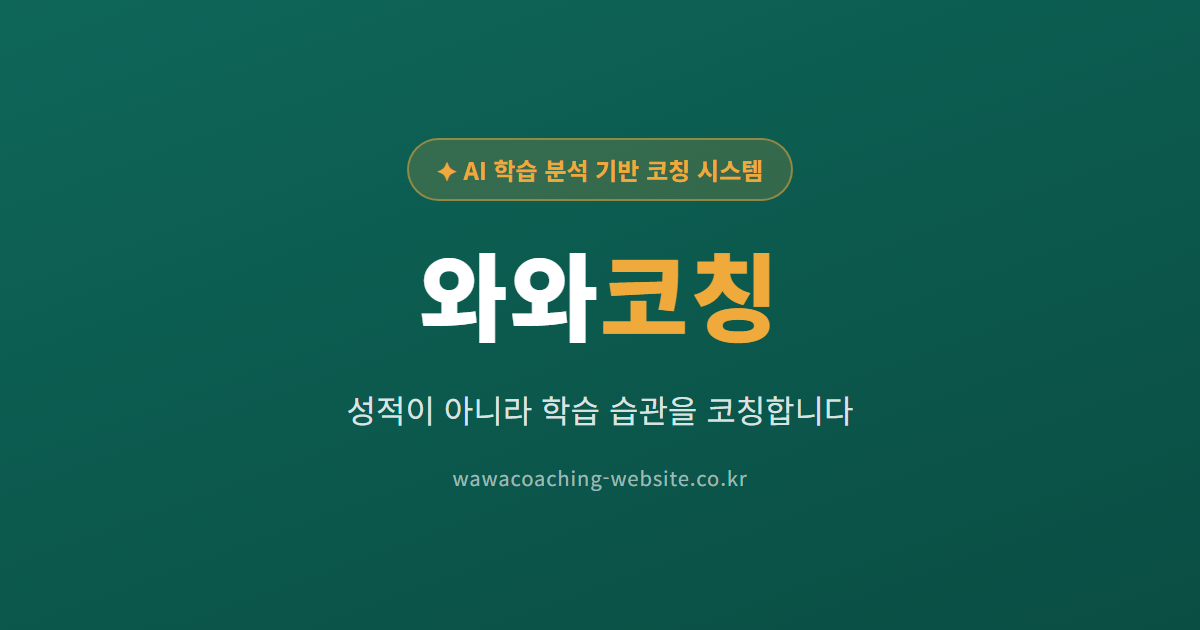
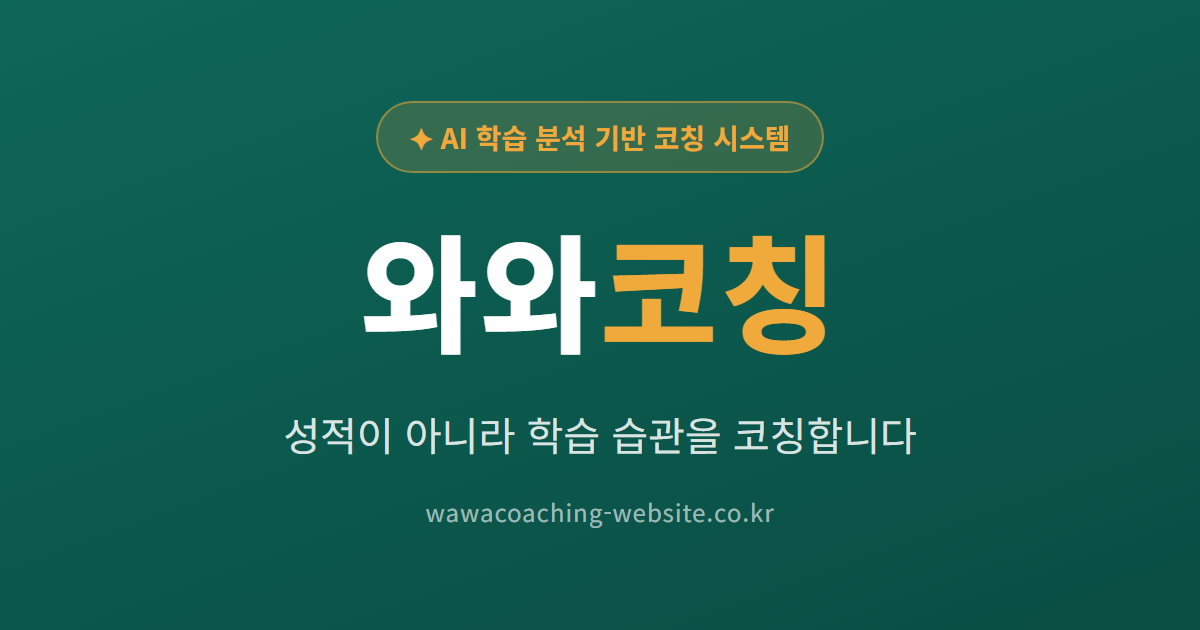
공유용 썸네일 글씨 크기 확대 (프레임 내 여백 유지)

diff --git a/visit-class.html b/visit-class.html
@@ -10,12 +10,12 @@
 <meta property="og:type" content="website" />
 <meta property="og:title" content="방문·화상 수업 안내 - 와와코칭" />
 <meta property="og:description" content="가까운 지점이 멀 때도 괜찮습니다. 선생님이 직접 방문하거나 화상으로 진행하는 코칭을 안내합니다." />
-<meta property="og:image" content="https://wawacoaching-website.co.kr/og-thumbnail.png?v=1" />
+<meta property="og:image" content="https://wawacoaching-website.co.kr/og-thumbnail.png?v=2" />
 <meta property="og:image:width" content="1200" />
 <meta property="og:image:height" content="630" />
 <meta property="og:url" content="https://wawacoaching-website.co.kr/visit-class.html" />
 <meta name="twitter:card" content="summary_large_image" />
-<meta name="twitter:image" content="https://wawacoaching-website.co.kr/og-thumbnail.png?v=1" />
+<meta name="twitter:image" content="https://wawacoaching-website.co.kr/og-thumbnail.png?v=2" />
 <link rel="icon" type="image/svg+xml" href="favicon.svg">
 <script type="application/ld+json">
 {"@context":"https://schema.org","@type":"BreadcrumbList","itemListElement":[{"@type":"ListItem","position":1,"name":"홈","item":"https://wawacoaching-website.co.kr/"},{"@type":"ListItem","position":2,"name":"방문·화상 수업","item":"https://wawacoaching-website.co.kr/visit-class.html"}]}

diff --git a/news/학부모상담주간-활용법.html b/news/학부모상담주간-활용법.html
@@ -9,12 +9,12 @@
 <meta property="og:type" content="article" />
 <meta property="og:title" content="2학기 학부모 상담주간, 담임선생님께 무엇을 물어볼까" />
 <meta property="og:description" content="2학기 학부모 상담주간에 담임선생님께 물어보면 좋을 질문들을 정리했습니다." />
-<meta property="og:image" content="https://wawacoaching-website.co.kr/og-thumbnail.png?v=1" />
+<meta property="og:image" content="https://wawacoaching-website.co.kr/og-thumbnail.png?v=2" />
 <meta property="og:image:width" content="1200" />
 <meta property="og:image:height" content="630" />
 <meta property="og:url" content="https://wawacoaching-website.co.kr/news/%ED%95%99%EB%B6%80%EB%AA%A8%EC%83%81%EB%8B%B4%EC%A3%BC%EA%B0%84-%ED%99%9C%EC%9A%A9%EB%B2%95.html" />
 <meta name="twitter:card" content="summary_large_image" />
-<meta name="twitter:image" content="https://wawacoaching-website.co.kr/og-thumbnail.png?v=1" />
+<meta name="twitter:image" content="https://wawacoaching-website.co.kr/og-thumbnail.png?v=2" />
 <link rel="icon" type="image/svg+xml" href="../favicon.svg">
 <link href="https://fonts.googleapis.com/css2?family=Noto+Sans+KR:wght@400;500;700;800&display=swap" rel="stylesheet">
 <link rel="stylesheet" href="https://cdn.jsdelivr.net/npm/@tabler/icons-webfont@latest/tabler-icons.min.css">

diff --git a/news/AI학습분석-리포트-활용법.html b/news/AI학습분석-리포트-활용법.html
@@ -9,12 +9,12 @@
 <meta property="og:type" content="article" />
 <meta property="og:title" content="AI 학습 분석 리포트, 학부모가 확인해야 할 것들" />
 <meta property="og:description" content="와와코칭 AI 학습 분석 리포트에서 학부모가 꼭 확인해야 할 항목을 정리했습니다." />
-<meta property="og:image" content="https://wawacoaching-website.co.kr/og-thumbnail.png?v=1" />
+<meta property="og:image" content="https://wawacoaching-website.co.kr/og-thumbnail.png?v=2" />
 <meta property="og:image:width" content="1200" />
 <meta property="og:image:height" content="630" />
 <meta property="og:url" content="https://wawacoaching-website.co.kr/news/AI%ED%95%99%EC%8A%B5%EB%B6%84%EC%84%9D-%EB%A6%AC%ED%8F%AC%ED%8A%B8-%ED%99%9C%EC%9A%A9%EB%B2%95.html" />
 <meta name="twitter:card" content="summary_large_image" />
-<meta name="twitter:image" content="https://wawacoaching-website.co.kr/og-thumbnail.png?v=1" />
+<meta name="twitter:image" content="https://wawacoaching-website.co.kr/og-thumbnail.png?v=2" />
 <link rel="icon" type="image/svg+xml" href="../favicon.svg">
 <link href="https://fonts.googleapis.com/css2?family=Noto+Sans+KR:wght@400;500;700;800&display=swap" rel="stylesheet">
 <link rel="stylesheet" href="https://cdn.jsdelivr.net/npm/@tabler/icons-webfont@latest/tabler-icons.min.css">

diff --git a/news/상담준비가이드.html b/news/상담준비가이드.html
@@ -9,12 +9,12 @@
 <meta property="og:type" content="article" />
 <meta property="og:title" content="학습 코칭 상담 전, 미리 준비하면 좋은 3가지" />
 <meta property="og:description" content="첫 학습 코칭 상담을 앞두고 있다면, 미리 정리해두면 상담이 훨씬 알차게 진행되는 3가지를 정리했습니다." />
-<meta property="og:image" content="https://wawacoaching-website.co.kr/og-thumbnail.png?v=1" />
+<meta property="og:image" content="https://wawacoaching-website.co.kr/og-thumbnail.png?v=2" />
 <meta property="og:image:width" content="1200" />
 <meta property="og:image:height" content="630" />
 <meta property="og:url" content="https://wawacoaching-website.co.kr/news/%EC%83%81%EB%8B%B4%EC%A4%80%EB%B9%84%EA%B0%80%EC%9D%B4%EB%93%9C.html" />
 <meta name="twitter:card" content="summary_large_image" />
-<meta name="twitter:image" content="https://wawacoaching-website.co.kr/og-thumbnail.png?v=1" />
+<meta name="twitter:image" content="https://wawacoaching-website.co.kr/og-thumbnail.png?v=2" />
 <link rel="icon" type="image/svg+xml" href="../favicon.svg">
 <link href="https://fonts.googleapis.com/css2?family=Noto+Sans+KR:wght@400;500;700;800&display=swap" rel="stylesheet">
 <link rel="stylesheet" href="https://cdn.jsdelivr.net/npm/@tabler/icons-webfont@latest/tabler-icons.min.css">

diff --git a/news/자기주도학습-시작시기.html b/news/자기주도학습-시작시기.html
@@ -9,12 +9,12 @@
 <meta property="og:type" content="article" />
 <meta property="og:title" content="자기주도학습, 언제부터 시작하면 좋을까요" />
 <meta property="og:description" content="자기주도학습은 몇 학년부터 시작하는 게 좋을지, 학년별 접근 방식을 정리했습니다." />
-<meta property="og:image" content="https://wawacoaching-website.co.kr/og-thumbnail.png?v=1" />
+<meta property="og:image" content="https://wawacoaching-website.co.kr/og-thumbnail.png?v=2" />
 <meta property="og:image:width" content="1200" />
 <meta property="og:image:height" content="630" />
 <meta property="og:url" content="https://wawacoaching-website.co.kr/news/%EC%9E%90%EA%B8%B0%EC%A3%BC%EB%8F%84%ED%95%99%EC%8A%B5-%EC%8B%9C%EC%9E%91%EC%8B%9C%EA%B8%B0.html" />
 <meta name="twitter:card" content="summary_large_image" />
-<meta name="twitter:image" content="https://wawacoaching-website.co.kr/og-thumbnail.png?v=1" />
+<meta name="twitter:image" content="https://wawacoaching-website.co.kr/og-thumbnail.png?v=2" />
 <link rel="icon" type="image/svg+xml" href="../favicon.svg">
 <link href="https://fonts.googleapis.com/css2?family=Noto+Sans+KR:wght@400;500;700;800&display=swap" rel="stylesheet">
 <link rel="stylesheet" href="https://cdn.jsdelivr.net/npm/@tabler/icons-webfont@latest/tabler-icons.min.css">

diff --git a/news/4C코칭이란.html b/news/4C코칭이란.html
@@ -9,12 +9,12 @@
 <meta property="og:type" content="article" />
 <meta property="og:title" content="4C 코칭이란? 계획-실행-점검-보완으로 완성하는 학습 습관" />
 <meta property="og:description" content="와와코칭의 4C 코칭이 실제로 어떻게 운영되는지, 4단계 흐름을 중심으로 정리했습니다." />
-<meta property="og:image" content="https://wawacoaching-website.co.kr/og-thumbnail.png?v=1" />
+<meta property="og:image" content="https://wawacoaching-website.co.kr/og-thumbnail.png?v=2" />
 <meta property="og:image:width" content="1200" />
 <meta property="og:image:height" content="630" />
 <meta property="og:url" content="https://wawacoaching-website.co.kr/news/4C%EC%BD%94%EC%B9%AD%EC%9D%B4%EB%9E%80.html" />
 <meta name="twitter:card" content="summary_large_image" />
-<meta name="twitter:image" content="https://wawacoaching-website.co.kr/og-thumbnail.png?v=1" />
+<meta name="twitter:image" content="https://wawacoaching-website.co.kr/og-thumbnail.png?v=2" />
 <link rel="icon" type="image/svg+xml" href="../favicon.svg">
 <link href="https://fonts.googleapis.com/css2?family=Noto+Sans+KR:wght@400;500;700;800&display=swap" rel="stylesheet">
 <link rel="stylesheet" href="https://cdn.jsdelivr.net/npm/@tabler/icons-webfont@latest/tabler-icons.min.css">

diff --git a/news/학습습관-형성.html b/news/학습습관-형성.html
@@ -9,12 +9,12 @@
 <meta property="og:type" content="article" />
 <meta property="og:title" content="성적보다 학습 습관부터 봐야 하는 이유" />
 <meta property="og:description" content="당장의 점수보다 학습 습관을 먼저 점검해야 하는 이유를 정리했습니다." />
-<meta property="og:image" content="https://wawacoaching-website.co.kr/og-thumbnail.png?v=1" />
+<meta property="og:image" content="https://wawacoaching-website.co.kr/og-thumbnail.png?v=2" />
 <meta property="og:image:width" content="1200" />
 <meta property="og:image:height" content="630" />
 <meta property="og:url" content="https://wawacoaching-website.co.kr/news/%ED%95%99%EC%8A%B5%EC%8A%B5%EA%B4%80-%ED%98%95%EC%84%B1.html" />
 <meta name="twitter:card" content="summary_large_image" />
-<meta name="twitter:image" content="https://wawacoaching-website.co.kr/og-thumbnail.png?v=1" />
+<meta name="twitter:image" content="https://wawacoaching-website.co.kr/og-thumbnail.png?v=2" />
 <link rel="icon" type="image/svg+xml" href="../favicon.svg">
 <link href="https://fonts.googleapis.com/css2?family=Noto+Sans+KR:wght@400;500;700;800&display=swap" rel="stylesheet">
 <link rel="stylesheet" href="https://cdn.jsdelivr.net/npm/@tabler/icons-webfont@latest/tabler-icons.min.css">

diff --git a/center-finder.html b/center-finder.html
@@ -10,12 +10,12 @@
 <meta property="og:type" content="website" />
 <meta property="og:title" content="전국 203개 지점 찾기 - 와와코칭" />
 <meta property="og:description" content="우리 동네 가까운 와와코칭 지점을 지금 바로 찾아보세요. 전국 203개 지점을 지역별로 검색할 수 있습니다." />
-<meta property="og:image" content="https://wawacoaching-website.co.kr/og-thumbnail.png?v=1" />
+<meta property="og:image" content="https://wawacoaching-website.co.kr/og-thumbnail.png?v=2" />
 <meta property="og:image:width" content="1200" />
 <meta property="og:image:height" content="630" />
 <meta property="og:url" content="https://wawacoaching-website.co.kr/center-finder.html" />
 <meta name="twitter:card" content="summary_large_image" />
-<meta name="twitter:image" content="https://wawacoaching-website.co.kr/og-thumbnail.png?v=1" />
+<meta name="twitter:image" content="https://wawacoaching-website.co.kr/og-thumbnail.png?v=2" />
 <link rel="icon" type="image/svg+xml" href="favicon.svg">
 <link href="https://fonts.googleapis.com/css2?family=Noto+Sans+KR:wght@400;500;700;800&display=swap" rel="stylesheet">
 <link rel="stylesheet" href="https://cdn.jsdelivr.net/npm/@tabler/icons-webfont@latest/tabler-icons.min.css">

diff --git a/news.html b/news.html
@@ -10,12 +10,12 @@
 <meta property="og:type" content="website" />
 <meta property="og:title" content="입시뉴스 - 코칭 시스템 학습 가이드 | 와와코칭" />
 <meta property="og:description" content="4C 코칭, 자기주도학습, 학습 습관까지 - 와와코칭이 직접 정리한 학습 코칭 가이드를 확인하세요." />
-<meta property="og:image" content="https://wawacoaching-website.co.kr/og-thumbnail.png?v=1" />
+<meta property="og:image" content="https://wawacoaching-website.co.kr/og-thumbnail.png?v=2" />
 <meta property="og:image:width" content="1200" />
 <meta property="og:image:height" content="630" />
 <meta property="og:url" content="https://wawacoaching-website.co.kr/news.html" />
 <meta name="twitter:card" content="summary_large_image" />
-<meta name="twitter:image" content="https://wawacoaching-website.co.kr/og-thumbnail.png?v=1" />
+<meta name="twitter:image" content="https://wawacoaching-website.co.kr/og-thumbnail.png?v=2" />
 <link rel="icon" type="image/svg+xml" href="favicon.svg">
 <link href="https://fonts.googleapis.com/css2?family=Noto+Sans+KR:wght@400;500;700;800&display=swap" rel="stylesheet">
 <link rel="stylesheet" href="https://cdn.jsdelivr.net/npm/@tabler/icons-webfont@latest/tabler-icons.min.css">

diff --git a/brand.html b/brand.html
@@ -10,12 +10,12 @@
 <meta property="og:type" content="website" />
 <meta property="og:title" content="학원 소개 - 와와코칭" />
 <meta property="og:description" content="성적이 아니라 '스스로 공부하는 힘'을 키우는 학습 코칭 시스템, 와와코칭의 교육 철학과 학습 시스템을 소개합니다." />
-<meta property="og:image" content="https://wawacoaching-website.co.kr/og-thumbnail.png?v=1" />
+<meta property="og:image" content="https://wawacoaching-website.co.kr/og-thumbnail.png?v=2" />
 <meta property="og:image:width" content="1200" />
 <meta property="og:image:height" content="630" />
 <meta property="og:url" content="https://wawacoaching-website.co.kr/brand.html" />
 <meta name="twitter:card" content="summary_large_image" />
-<meta name="twitter:image" content="https://wawacoaching-website.co.kr/og-thumbnail.png?v=1" />
+<meta name="twitter:image" content="https://wawacoaching-website.co.kr/og-thumbnail.png?v=2" />
 <link rel="icon" type="image/svg+xml" href="favicon.svg">
 <link href="https://fonts.googleapis.com/css2?family=Noto+Sans+KR:wght@400;500;700;800&display=swap" rel="stylesheet">
 <link rel="stylesheet" href="https://cdn.jsdelivr.net/npm/@tabler/icons-webfont@latest/tabler-icons.min.css">

diff --git a/reviews.html b/reviews.html
@@ -10,12 +10,12 @@
 <meta property="og:type" content="website" />
 <meta property="og:title" content="와와코칭 학부모 후기 - 실제 수강 후기 모음" />
 <meta property="og:description" content="와와코칭 4C 코칭, AI 학습 분석을 실제로 경험한 학부모와 학생들의 후기를 확인하세요." />
-<meta property="og:image" content="https://wawacoaching-website.co.kr/og-thumbnail.png?v=1" />
+<meta property="og:image" content="https://wawacoaching-website.co.kr/og-thumbnail.png?v=2" />
 <meta property="og:image:width" content="1200" />
 <meta property="og:image:height" content="630" />
 <meta property="og:url" content="https://wawacoaching-website.co.kr/reviews.html" />
 <meta name="twitter:card" content="summary_large_image" />
-<meta name="twitter:image" content="https://wawacoaching-website.co.kr/og-thumbnail.png?v=1" />
+<meta name="twitter:image" content="https://wawacoaching-website.co.kr/og-thumbnail.png?v=2" />
 <link rel="icon" type="image/svg+xml" href="favicon.svg">
 <link href="https://fonts.googleapis.com/css2?family=Noto+Sans+KR:wght@400;500;700;800&display=swap" rel="stylesheet">
 <link rel="stylesheet" href="https://cdn.jsdelivr.net/npm/@tabler/icons-webfont@latest/tabler-icons.min.css">

diff --git a/consult.html b/consult.html
@@ -9,12 +9,12 @@
 <meta property="og:type" content="website" />
 <meta property="og:title" content="무료 상담 / 방문 신청 - 와와코칭" />
 <meta property="og:description" content="와와코칭 무료 상담 및 방문 신청. 담당 코치가 직접 연락드립니다." />
-<meta property="og:image" content="https://wawacoaching-website.co.kr/og-thumbnail.png?v=1" />
+<meta property="og:image" content="https://wawacoaching-website.co.kr/og-thumbnail.png?v=2" />
 <meta property="og:image:width" content="1200" />
 <meta property="og:image:height" content="630" />
 <meta property="og:url" content="https://wawacoaching-website.co.kr/consult.html" />
 <meta name="twitter:card" content="summary_large_image" />
-<meta name="twitter:image" content="https://wawacoaching-website.co.kr/og-thumbnail.png?v=1" />
+<meta name="twitter:image" content="https://wawacoaching-website.co.kr/og-thumbnail.png?v=2" />
 <link rel="icon" type="image/svg+xml" href="favicon.svg">
 <link href="https://fonts.googleapis.com/css2?family=Noto+Sans+KR:wght@400;500;700;800&display=swap" rel="stylesheet">
 <link rel="stylesheet" href="https://cdn.jsdelivr.net/npm/@tabler/icons-webfont@latest/tabler-icons.min.css">
